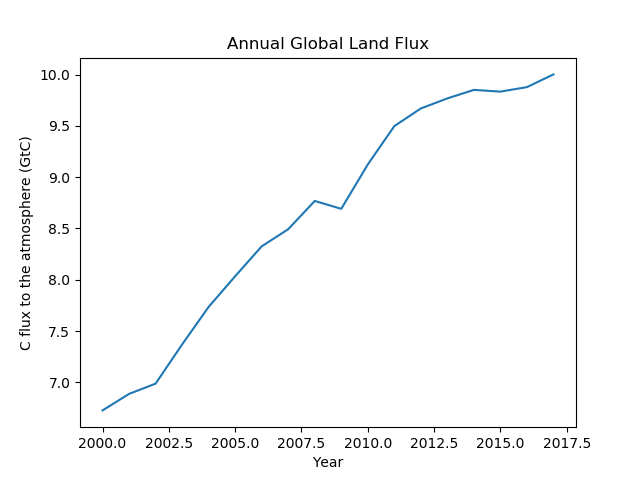
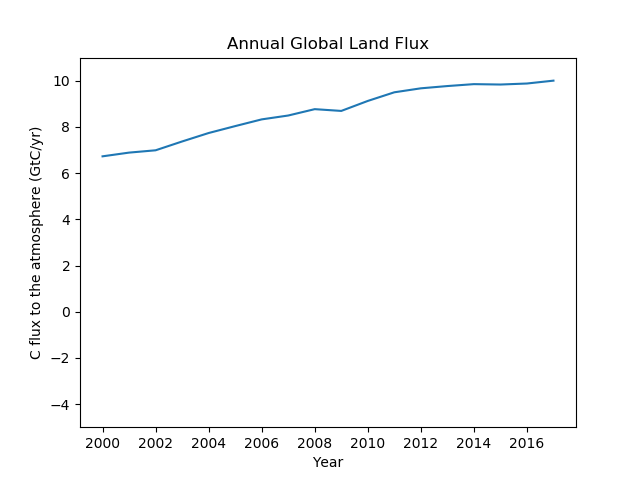
Finalised details on output, ready for discussion

diff --git a/Peylin_flux/Scripts/inv_flux.py b/Peylin_flux/Scripts/inv_flux.py
@@ -1,8 +1,11 @@
+#!/usr/bin/python
+
 import numpy as np
 import xarray as xr
 import sys
 import pandas as pd
 import matplotlib.pyplot as plt
+from matplotlib.ticker import MaxNLocator
 
 
 
@@ -253,16 +256,22 @@ if __name__ == "__main__":
     output_df.to_csv(output_file, index=False) # Save dataframe as a csv file.
     
     if len(sys.argv) > 3:
-        plt.plot(output_df.Year, output_df.earth_land_total)
+        ax = plt.figure().gca()
+        ax.plot(output_df.Year, output_df.earth_land_total)
+        ax.xaxis.set_major_locator(MaxNLocator(integer=True))
         plt.title("Annual Global Land Flux")
         plt.xlabel("Year")
-        plt.ylabel("C flux to the atmosphere (GtC)")
+        plt.ylabel("C flux to the atmosphere (GtC/yr)")
+        plt.ylim([-5,11])
         plt.savefig(sys.argv[3])
     if len(sys.argv) > 4:
         plt.clf()
-        plt.plot(output_df.Year, output_df.earth_ocean_total)
+        ax = plt.figure().gca()
+        ax.plot(output_df.Year, output_df.earth_ocean_total)
+        ax.xaxis.set_major_locator(MaxNLocator(integer=True))
         plt.title("Annual Global Ocean Flux")
         plt.xlabel("Year")
-        plt.ylabel("C flux to the atmosphere (GtC)")
+        plt.ylabel("C flux to the atmosphere (GtC/yr)")
+        plt.ylim([-5,2])
         plt.savefig(sys.argv[4])
 
